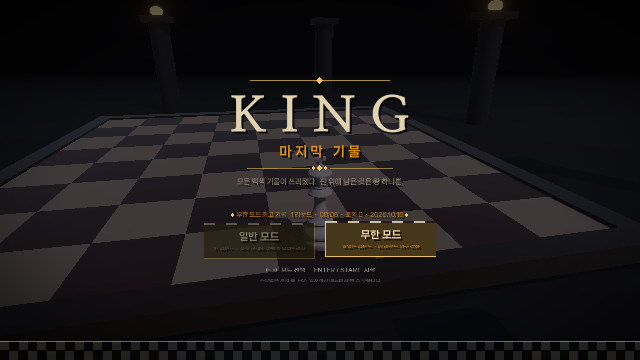
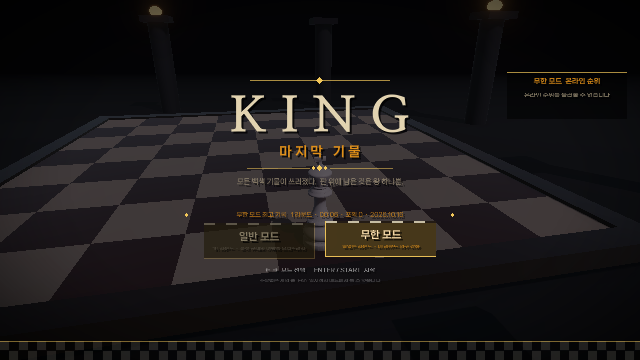
Online endless ranking on Unity Gaming Services: nickname on the results screen, top 10 + own rank on the title
- Packages: com.unity.services.authentication 3.8.0, com.unity.services.leaderboards 2.3.4
- Anonymous sign-in; score = round x 100000 + (99999 - seconds), leaderboard id endless_best (high to low, keep best)
- Results: nickname field (remembered) and confirm sends the run, then the title (offline: skipped after at most 6 s)
- Title: online top 10 with the player's own row highlighted and their rank

Changed region(s): [[0.8125, 0.2139, 0.9375, 0.275]]

diff --git a/Assets/Scripts/Core/Hud.cs b/Assets/Scripts/Core/Hud.cs
@@ -5,7 +5,8 @@ namespace KingLastPiece
     /// <summary>IMGUI HUD: health/stamina with damage trail, flasks, lock-on marker, enemy and boss bars, overlays.</summary>
     public class Hud : MonoBehaviour
     {
-        GUIStyle big, mid, small, label, title;
+        GUIStyle big, mid, small, label, title, fieldStyle;
+        string nickname;   // results screen: the name the run goes online under
         float hpTrail = 100f, bossTrail = 1f, rollAlpha = 1f;
         float scale;
 
@@ -460,6 +461,8 @@ namespace KingLastPiece
             Text(new Rect(0, by - 42 * scale, W, 32 * scale), best, new GUIStyle(small) { fontSize = Mathf.RoundToInt(18 * scale) },
                 new Color(Gold.r, Gold.g, Gold.b, 0.9f * fade));
 
+            DrawOnlineRanking(new Rect(W - 400 * scale, H * 0.2f, 360 * scale, 0f), fade);
+
             // Chess-tile band along the bottom edge.
             float tile = 28 * scale;
             int count = Mathf.CeilToInt(W / tile) + 1;
@@ -502,18 +505,93 @@ namespace KingLastPiece
                 ("획득한 강화", $"{r.upgrades}개"),
             }, 260 * scale);
 
-            // Confirm → title.
+            // Nickname for the online ranking, then confirm → the run is sent and the title comes back.
             var e = Event.current;
-            var b = new Rect((W - 300 * scale) / 2f, H * 0.07f + 168 * scale + 9 * 40 * scale + 56 * scale, 300 * scale, 60 * scale);
-            bool ready = g.StateTime > 1.8f;
-            if (ready && e.type == EventType.MouseDown && b.Contains(e.mousePosition)) { g.BackToTitle(); e.Use(); }
+            float fy = H * 0.07f + 168 * scale + 9 * 40 * scale + 44 * scale;
+            bool ready = g.StateTime > 1.8f && !g.Submitting;
+            nickname ??= OnlineBoard.SavedName;
+            var nameLabel = new GUIStyle(label) { fontSize = Mathf.RoundToInt(20 * scale), alignment = TextAnchor.MiddleRight };
+            var field = new Rect(W / 2f - 120 * scale, fy, 300 * scale, 46 * scale);
+            Text(new Rect(field.x - 190 * scale, fy, 176 * scale, 46 * scale), "닉네임", nameLabel, Gold);
+            Fill(new Rect(field.x - 2 * scale, field.y - 2 * scale, field.width + 4 * scale, field.height + 4 * scale), new Color(Gold.r, Gold.g, Gold.b, 0.7f * a));
+            Fill(field, new Color(0.04f, 0.035f, 0.04f, 0.95f * a));
+            fieldStyle ??= new GUIStyle(GUI.skin.textField) { font = small.font, alignment = TextAnchor.MiddleLeft };
+            fieldStyle.fontSize = Mathf.RoundToInt(22 * scale);
+            fieldStyle.normal.textColor = fieldStyle.focused.textColor = fieldStyle.hover.textColor = new Color(1f, 0.96f, 0.88f);
+            fieldStyle.normal.background = fieldStyle.focused.background = fieldStyle.hover.background = Texture2D.blackTexture;
+            fieldStyle.padding = new RectOffset(Mathf.RoundToInt(12 * scale), 0, 0, 0);
+            Input.imeCompositionMode = IMECompositionMode.On;   // Korean names
+            // Enter inside the field confirms too.
+            bool enter = e.type == EventType.KeyDown && (e.keyCode == KeyCode.Return || e.keyCode == KeyCode.KeypadEnter);
+            GUI.SetNextControlName("Nickname");
+            if (!g.Submitting) nickname = GUI.TextField(field, nickname, 12, fieldStyle);
+            else GUI.Label(field, nickname, fieldStyle);
+            if (ready && g.StateTime < 2.2f) GUI.FocusControl("Nickname");
+
+            var b = new Rect((W - 300 * scale) / 2f, fy + 68 * scale, 300 * scale, 58 * scale);
+            bool click = e.type == EventType.MouseDown && b.Contains(e.mousePosition);
+            bool padConfirm = e.type == EventType.Repaint && GameInput.Confirm;   // gamepad A / Start (keys come as events)
+            if (ready && (click || enter || padConfirm))
+            {
+                g.SubmitRun(nickname);
+                if (e.type != EventType.Repaint) e.Use();
+            }
             float pulse = 0.75f + 0.25f * Mathf.Sin(Time.unscaledTime * 5f);
             Fill(new Rect(b.x - 3 * scale, b.y - 3 * scale, b.width + 6 * scale, b.height + 6 * scale),
                 new Color(Gold.r, Gold.g, Gold.b, (ready ? pulse : 0.3f) * a));
             Fill(b, new Color(0.22f, 0.16f, 0.07f, a));
-            Text(b, "확인", new GUIStyle(mid) { fontSize = Mathf.RoundToInt(28 * scale) }, new Color(1f, 0.95f, 0.85f, (ready ? 1f : 0.4f) * a));
-            Text(new Rect(0, b.yMax + 10 * scale, W, 26 * scale), "ENTER / START 또는 클릭  —  타이틀로",
+            Text(b, g.Submitting ? "기록 전송 중…" : "확인", new GUIStyle(mid) { fontSize = Mathf.RoundToInt(26 * scale) },
+                new Color(1f, 0.95f, 0.85f, (ready || g.Submitting ? 1f : 0.4f) * a));
+            Text(new Rect(0, b.yMax + 10 * scale, W, 26 * scale), "닉네임을 입력하고 확인  —  온라인 순위에 기록하고 타이틀로",
                 new GUIStyle(small) { fontSize = Mathf.RoundToInt(15 * scale) }, new Color(1f, 1f, 1f, 0.45f * a));
+        }
+
+        bool rankingRequested;
+
+        /// <summary>Title side panel: the endless mode's online top 10 and this player's own rank (UGS Leaderboards).</summary>
+        void DrawOnlineRanking(Rect area, float fade)
+        {
+            if (!rankingRequested) { rankingRequested = true; OnlineBoard.Refresh(); }
+            float line = 30 * scale;
+            int rows = Mathf.Max(1, OnlineBoard.Top.Count);
+            var r = new Rect(area.x, area.y, area.width, 58 * scale + rows * line + 54 * scale);
+            Fill(r, new Color(0f, 0f, 0f, 0.55f * fade));
+            Fill(new Rect(r.x, r.y, r.width, 2 * scale), new Color(Gold.r, Gold.g, Gold.b, 0.7f * fade));
+            Text(new Rect(r.x, r.y + 10 * scale, r.width, 36 * scale), "무한 모드  온라인 순위", new GUIStyle(label) { alignment = TextAnchor.MiddleCenter, fontSize = Mathf.RoundToInt(20 * scale) },
+                new Color(Gold.r, Gold.g, Gold.b, fade));
+            var row = new GUIStyle(small) { fontSize = Mathf.RoundToInt(17 * scale), alignment = TextAnchor.MiddleLeft };
+            var right = new GUIStyle(row) { alignment = TextAnchor.MiddleRight };
+            float y = r.y + 54 * scale;
+            var dim = new Color(0.85f, 0.82f, 0.75f, fade);
+            switch (OnlineBoard.State)
+            {
+                case OnlineBoard.Status.Idle:
+                case OnlineBoard.Status.Loading:
+                    Text(new Rect(r.x, y, r.width, line), "불러오는 중…", new GUIStyle(row) { alignment = TextAnchor.MiddleCenter }, dim);
+                    break;
+                case OnlineBoard.Status.Unavailable:
+                    Text(new Rect(r.x, y, r.width, line), "온라인 순위를 불러올 수 없습니다", new GUIStyle(row) { alignment = TextAnchor.MiddleCenter }, dim);
+                    break;
+                default:
+                    if (OnlineBoard.Top.Count == 0)
+                        Text(new Rect(r.x, y, r.width, line), "아직 기록이 없습니다", new GUIStyle(row) { alignment = TextAnchor.MiddleCenter }, dim);
+                    foreach (var en in OnlineBoard.Top)
+                    {
+                        var c = en.mine ? new Color(1f, 0.85f, 0.45f, fade) : dim;
+                        if (en.mine) Fill(new Rect(r.x + 6 * scale, y, r.width - 12 * scale, line), new Color(Gold.r, Gold.g, Gold.b, 0.12f * fade));
+                        Text(new Rect(r.x + 16 * scale, y, 44 * scale, line), $"{en.rank}", row, c);
+                        Text(new Rect(r.x + 58 * scale, y, r.width * 0.5f, line), en.name, row, c);
+                        Text(new Rect(r.x, y, r.width - 16 * scale, line), $"{en.round}R  {BestRecord.FormatTime(en.time)}", right, c);
+                        y += line;
+                    }
+                    break;
+            }
+            float my = r.yMax - 40 * scale;
+            Fill(new Rect(r.x + 12 * scale, my - 4 * scale, r.width - 24 * scale, 1 * scale), new Color(Gold.r, Gold.g, Gold.b, 0.4f * fade));
+            string mine = OnlineBoard.Mine.HasValue
+                ? $"내 순위  {OnlineBoard.Mine.Value.rank}위  ·  {OnlineBoard.Mine.Value.round}R  {BestRecord.FormatTime(OnlineBoard.Mine.Value.time)}"
+                : OnlineBoard.State == OnlineBoard.Status.Ready ? "내 순위  기록 없음" : "";
+            Text(new Rect(r.x, my, r.width, 32 * scale), mine, new GUIStyle(row) { alignment = TextAnchor.MiddleCenter }, new Color(1f, 0.9f, 0.6f, fade));
         }
 
         void DrawDeath(GameManager g)

diff --git a/Assets/Scripts/Core/OnlineBoard.cs b/Assets/Scripts/Core/OnlineBoard.cs
@@ -1,0 +1,126 @@
+using System.Collections.Generic;
+using System.Threading.Tasks;
+using Unity.Services.Authentication;
+using Unity.Services.Core;
+using Unity.Services.Leaderboards;
+using UnityEngine;
+
+namespace KingLastPiece
+{
+    /// <summary>
+    /// Online ranking of the endless mode on Unity Gaming Services (anonymous sign-in + Leaderboards).
+    /// Ranked by round, then by the shorter time: both are packed into one score (higher is better),
+    /// <c>round × 100000 + (99999 − seconds)</c>. The leaderboard (id <see cref="LeaderboardId"/>) must exist in the
+    /// project's UGS dashboard, sorted high to low, keeping each player's best. Without a linked project or a
+    /// connection everything here just reports itself unavailable — the game never waits on it.
+    /// </summary>
+    public static class OnlineBoard
+    {
+        public const string LeaderboardId = "endless_best";
+        const string NameKey = "KLP.Nickname";
+
+        public enum Status { Idle, Loading, Ready, Unavailable }
+
+        public struct Entry
+        {
+            public int rank;        // 1-based
+            public string name;
+            public int round;
+            public float time;
+            public bool mine;
+        }
+
+        public static Status State { get; private set; } = Status.Idle;
+        public static readonly List<Entry> Top = new List<Entry>();
+        public static Entry? Mine { get; private set; }
+        public static string Error { get; private set; }
+        static float loadedAt = -100f;
+
+        /// <summary>The nickname entered last time (offered again on the next results screen).</summary>
+        public static string SavedName
+        {
+            get => PlayerPrefs.GetString(NameKey, "");
+            set { PlayerPrefs.SetString(NameKey, value); PlayerPrefs.Save(); }
+        }
+
+        public static long Pack(int round, float seconds) => round * 100000L + (99999L - Mathf.Clamp(Mathf.RoundToInt(seconds), 0, 99999));
+        public static int RoundOf(double score) => (int)(score / 100000d);
+        public static float TimeOf(double score) => 99999f - (float)(score % 100000d);
+
+        /// <summary>UGS names come back as "name#1234": the tag is dropped for display.</summary>
+        static string Clean(string playerName)
+        {
+            if (string.IsNullOrEmpty(playerName)) return "???";
+            int hash = playerName.LastIndexOf('#');
+            return hash > 0 ? playerName.Substring(0, hash) : playerName;
+        }
+
+        /// <summary>A nickname UGS accepts: trimmed, no spaces, at most 12 characters.</summary>
+        public static string Sanitize(string name)
+        {
+            name = (name ?? "").Trim().Replace(' ', '_');
+            return name.Length > 12 ? name.Substring(0, 12) : name;
+        }
+
+        static async Task<bool> Ready()
+        {
+            if (UnityServices.State != ServicesInitializationState.Initialized) await UnityServices.InitializeAsync();
+            if (!AuthenticationService.Instance.IsSignedIn) await AuthenticationService.Instance.SignInAnonymouslyAsync();
+            return AuthenticationService.Instance.IsSignedIn;
+        }
+
+        /// <summary>Loads the top 10 and this player's own entry (at most every 20 s unless forced).</summary>
+        public static async void Refresh(bool force = false)
+        {
+            if (State == Status.Loading || (!force && Time.unscaledTime - loadedAt < 20f && State == Status.Ready)) return;
+            State = Status.Loading;
+            try
+            {
+                if (!await Ready()) throw new System.Exception("sign-in failed");
+                var page = await LeaderboardsService.Instance.GetScoresAsync(LeaderboardId, new GetScoresOptions { Limit = 10 });
+                string me = AuthenticationService.Instance.PlayerId;
+                Top.Clear();
+                foreach (var e in page.Results)
+                    Top.Add(new Entry { rank = e.Rank + 1, name = Clean(e.PlayerName), round = RoundOf(e.Score), time = TimeOf(e.Score), mine = e.PlayerId == me });
+                Mine = null;
+                try
+                {
+                    var mine = await LeaderboardsService.Instance.GetPlayerScoreAsync(LeaderboardId);
+                    Mine = new Entry { rank = mine.Rank + 1, name = Clean(mine.PlayerName), round = RoundOf(mine.Score), time = TimeOf(mine.Score), mine = true };
+                }
+                catch (System.Exception) { /* no score yet */ }
+                loadedAt = Time.unscaledTime;
+                State = Status.Ready;
+                Error = null;
+            }
+            catch (System.Exception ex)
+            {
+                Error = ex.Message;
+                State = Status.Unavailable;
+                Debug.LogWarning($"[OnlineBoard] {ex.Message}");
+            }
+        }
+
+        /// <summary>Sends a finished run under <paramref name="nickname"/>; true when it reached the server.</summary>
+        public static async Task<bool> Submit(string nickname, int round, float seconds, int kills, float damage)
+        {
+            try
+            {
+                if (!await Ready()) return false;
+                nickname = Sanitize(nickname);
+                if (nickname.Length > 0 && Clean(AuthenticationService.Instance.PlayerName) != nickname)
+                    await AuthenticationService.Instance.UpdatePlayerNameAsync(nickname);
+                await LeaderboardsService.Instance.AddPlayerScoreAsync(LeaderboardId, Pack(round, seconds),
+                    new AddPlayerScoreOptions { Metadata = new Dictionary<string, object> { { "round", round }, { "time", Mathf.RoundToInt(seconds) }, { "kills", kills }, { "damage", Mathf.RoundToInt(damage) } } });
+                loadedAt = -100f;   // the title reloads the ranking
+                return true;
+            }
+            catch (System.Exception ex)
+            {
+                Error = ex.Message;
+                Debug.LogWarning($"[OnlineBoard] submit: {ex.Message}");
+                return false;
+            }
+        }
+    }
+}

diff --git a/Assets/Scripts/Core/GameManager.cs b/Assets/Scripts/Core/GameManager.cs
@@ -573,11 +573,8 @@ namespace KingLastPiece
                         break;
                     }
                     // Endless: the run ends — the results screen's confirm goes back to the title. Classic: retry the round.
-                    if (StateTime > 1.8f && GameInput.Confirm)
-                    {
-                        if (IsEndless) BackToTitle();
-                        else StartWave(WaveIndex);
-                    }
+                    // (The endless results screen takes the nickname and its own confirm — see SubmitRun.)
+                    if (!IsEndless && StateTime > 1.8f && GameInput.Confirm) StartWave(WaveIndex);
                     break;
 
                 case GameState.Victory:
@@ -615,6 +612,27 @@ namespace KingLastPiece
             }
             startFromMenu = true;
             UnityEngine.SceneManagement.SceneManager.LoadScene(endless ? EndlessScene : NormalScene);
+        }
+
+        /// <summary>True while the finished run is on its way to the online ranking.</summary>
+        public bool Submitting { get; private set; }
+
+        /// <summary>
+        /// Endless results confirm: sends the run to the online ranking under <paramref name="nickname"/> (at most a
+        /// few seconds — offline just skips it), then back to the title.
+        /// </summary>
+        public async void SubmitRun(string nickname)
+        {
+            if (Submitting || State != GameState.Dead || !IsEndless) return;
+            Submitting = true;
+            nickname = OnlineBoard.Sanitize(nickname);
+            if (nickname.Length > 0) OnlineBoard.SavedName = nickname;
+            Sfx.Play("UI_Confirm");
+            var send = OnlineBoard.Submit(nickname, Round, RunTime, Record.kills, Record.damageDealt);
+            await System.Threading.Tasks.Task.WhenAny(send, System.Threading.Tasks.Task.Delay(6000));
+            if (this == null) return;   // the scene went away meanwhile
+            Submitting = false;
+            BackToTitle();
         }
 
         /// <summary>Endless results → the title: the scene reloads (a fresh board, King and run).</summary>

diff --git a/Assets/Scripts/Lab/MenuShots.cs b/Assets/Scripts/Lab/MenuShots.cs
@@ -64,8 +64,11 @@ namespace KingLastPiece
             var rec = g.Record;
             log.Append($"Dead\tstate={g.State}\tround={g.Round}\tdealt={rec.damageDealt:0}\ttaken={rec.damageTaken:0}\tkills={rec.kills}\ttime={g.RunTime:0.0}\n");
             yield return Shot("44_Endless_Results.png");
-            g.BackToTitle();
+            // Nickname + confirm: the run goes to the online ranking (offline / unlinked: skipped after a moment).
+            g.SubmitRun("테스트킹");
+            for (int f = 0; f < 600 && GameManager.Instance != null && GameManager.Instance.State == GameManager.GameState.Dead; f++) yield return null;
             yield return Frames(90);
+            log.Append($"Online\tstate={OnlineBoard.State}\terror={OnlineBoard.Error}\tsaved_name={OnlineBoard.SavedName}\n");
             g = GameManager.Instance;
             log.Append($"AfterResults\tmode={g.CurrentMode}\tstate={g.State}\n");
             yield return Shot("45_Back_To_Title.png");
